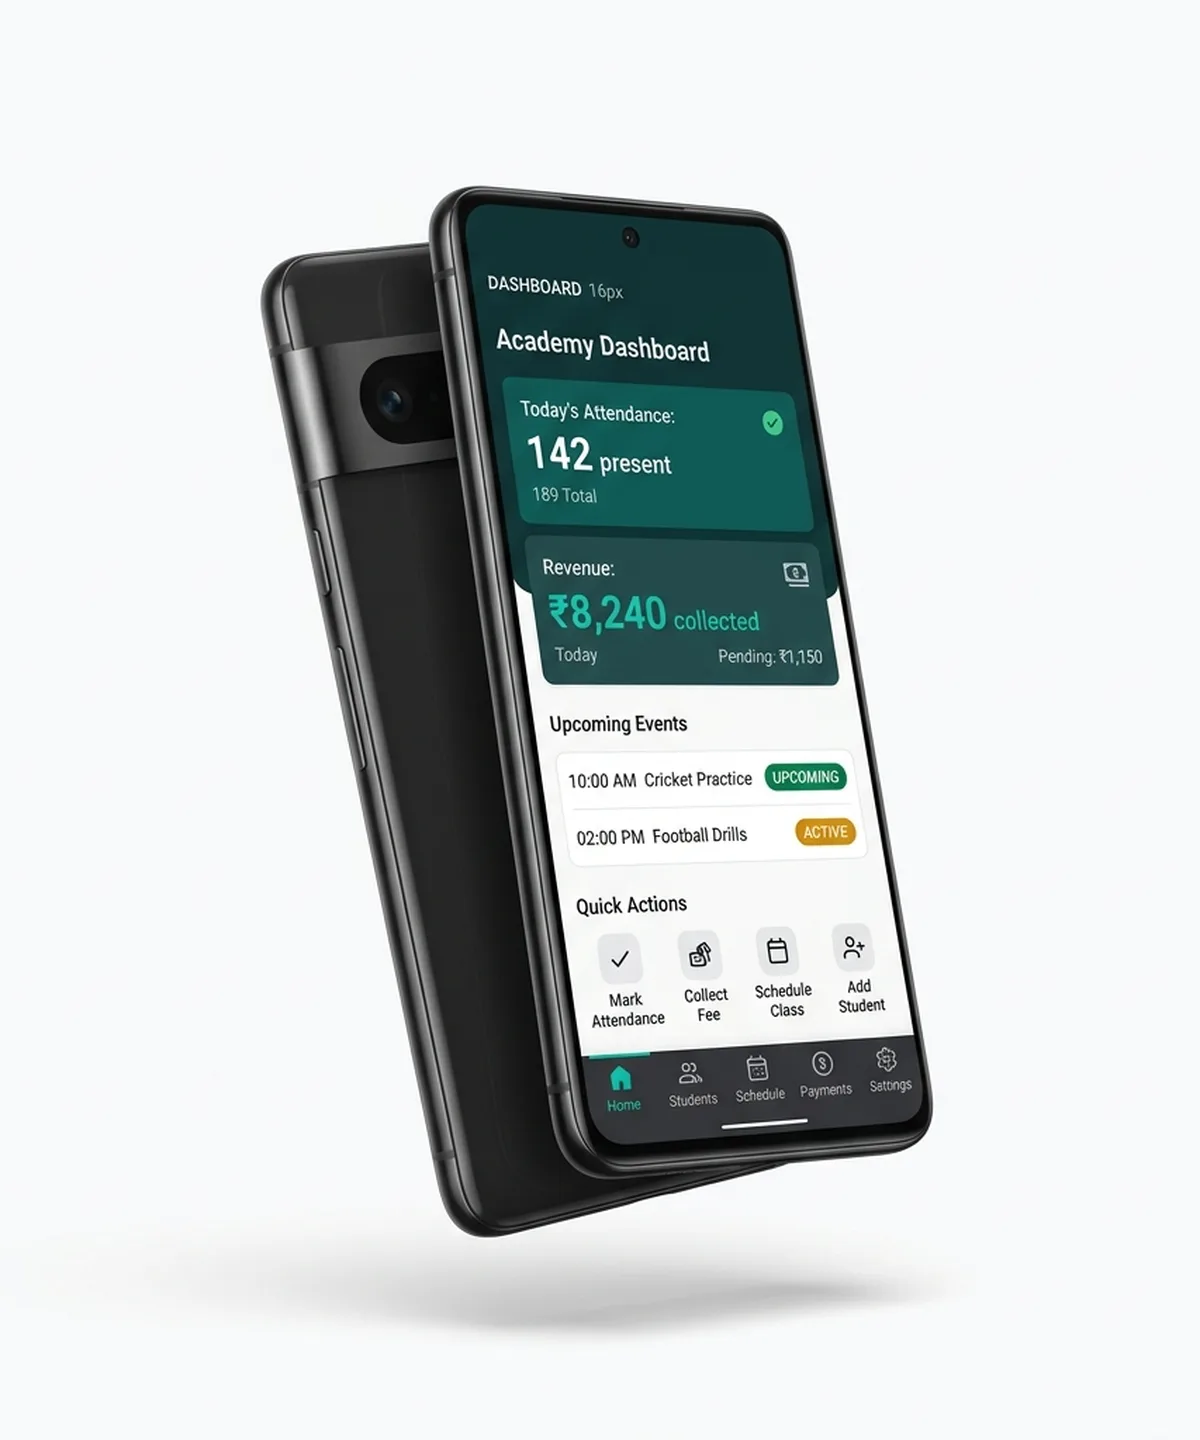
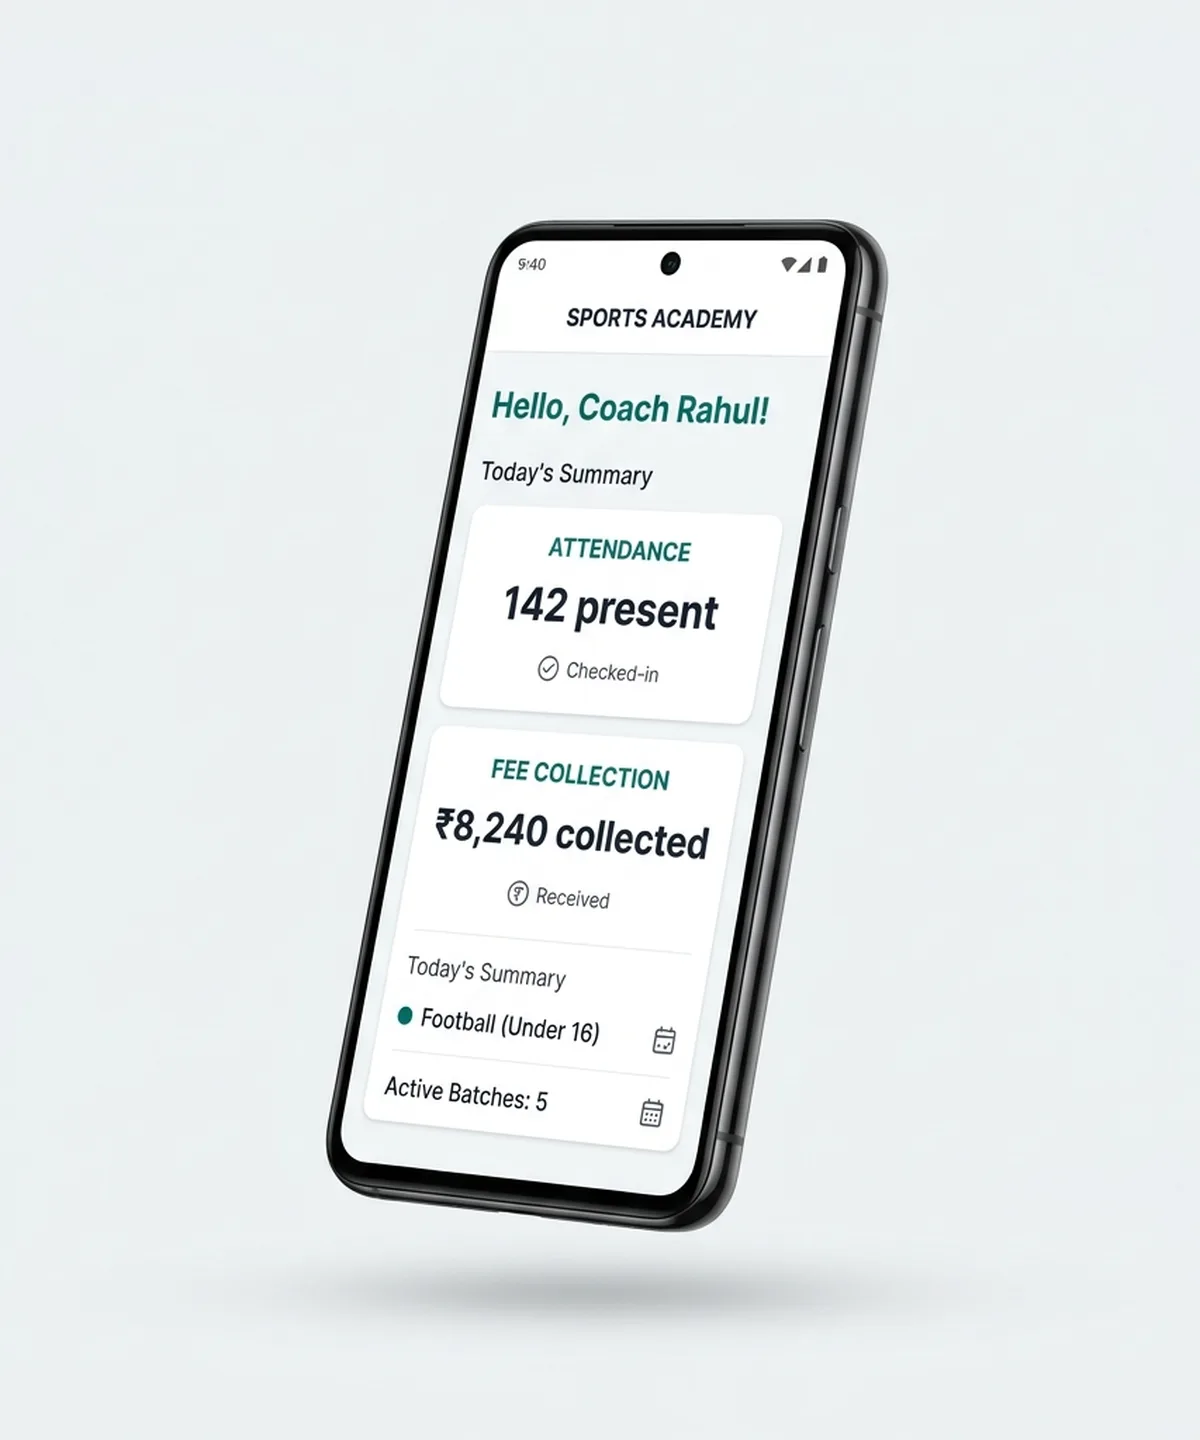
Fix hero mockup loading: unoptimized image and updated asset

Changed region(s): [[0.2158, 0.125, 0.8017, 0.875], [0.4317, 0.9062, 0.4933, 0.9375]]

diff --git a/web/src/lib/landing-config.ts b/web/src/lib/landing-config.ts
@@ -11,18 +11,18 @@ export type LandingFeatureIcon =
 export const landingConfig = {
   siteUrl: "https://sports-academia.vercel.app",
   contact: {
-    email: "[email redacted]",
+    email: "[email redacted]",
     instagram: "https://instagram.com",
     youtube: "https://youtube.com",
   },
   whatsapp: {
-    number: "919876543210",
+    number: "919008393030",
     message: "Hi, I'm interested in Academy Ops for my sports academy.",
   },
   stats: [
-    { value: 50, suffix: "+", label: "Academies onboarded" },
-    { value: 5000, suffix: "+", label: "Students managed" },
-    { value: 2, prefix: "₹", suffix: " Cr+", label: "Fees tracked on platform" },
+    { value: 5, suffix: "+", label: "Academies onboarded" },
+    { value: 1000, suffix: "+", label: "Students managed" },
+    { value: 30, prefix: "₹", suffix: " L+", label: "Fees tracked on platform" },
   ],
   sports: [
     "Cricket",
@@ -68,7 +68,7 @@ export const landingConfig = {
   ],
   pricing: {
     setup: {
-      amount: 14999,
+      amount: 19999,
       title: "One-time setup",
       subtitle: "Single location · onboarding included",
       includes: [
@@ -82,7 +82,7 @@ export const landingConfig = {
       {
         id: "starter",
         name: "Starter",
-        price: 2499,
+        price: 4999,
         period: "month",
         description: "Single academy · core operations",
         popular: false,
@@ -100,7 +100,7 @@ export const landingConfig = {
       {
         id: "pro",
         name: "Pro",
-        price: 4999,
+        price: 9999,
         period: "month",
         description: "Growing academies · full ops",
         popular: true,

diff --git a/web/src/components/landing/asset-image.tsx b/web/src/components/landing/asset-image.tsx
@@ -11,6 +11,7 @@ type AssetImageProps = {
   height: number;
   className?: string;
   priority?: boolean;
+  unoptimized?: boolean;
   loading?: "lazy" | "eager";
   fallback: React.ReactNode;
 };
@@ -22,6 +23,7 @@ export function AssetImage({
   height,
   className,
   priority,
+  unoptimized,
   loading,
   fallback,
 }: AssetImageProps) {
@@ -38,6 +40,7 @@ export function AssetImage({
       width={width}
       height={height}
       priority={priority}
+      unoptimized={unoptimized}
       loading={priority ? undefined : loading ?? "lazy"}
       className={cn(className)}
       onError={() => setFailed(true)}

diff --git a/web/src/components/landing/hero-section.tsx b/web/src/components/landing/hero-section.tsx
@@ -73,6 +73,7 @@ export function HeroSection() {
             width={1200}
             height={1440}
             priority
+            unoptimized
             className="w-full max-w-[340px] drop-shadow-2xl"
             fallback={<ProductMock />}
           />